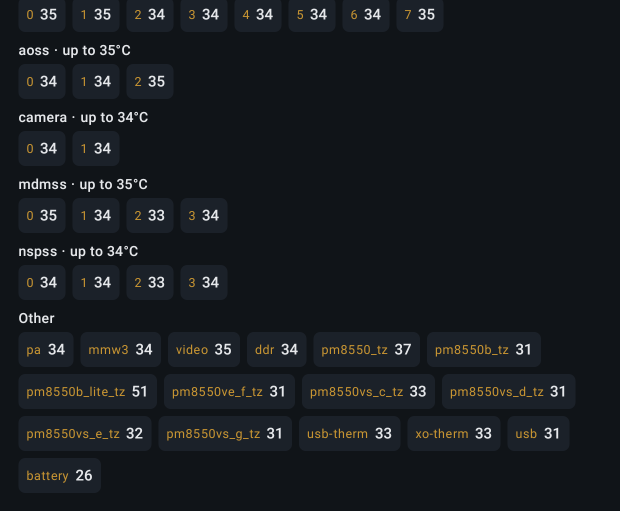
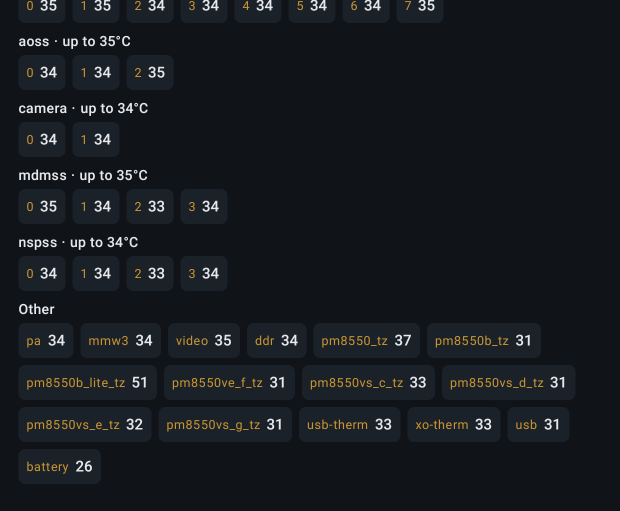
Perf page: lazy list so a poll recomposes only what is on screen; restore the app-list card without scrolling the row

diff --git a/app/src/main/java/io/github/esko997/sortie/ui/PerfViews.kt b/app/src/main/java/io/github/esko997/sortie/ui/PerfViews.kt
@@ -3,7 +3,6 @@ package io.github.esko997.sortie.ui
 import android.view.KeyEvent
 import androidx.compose.foundation.Canvas
 import androidx.compose.foundation.LocalIndication
-import androidx.compose.foundation.ScrollState
 import androidx.compose.foundation.background
 import androidx.compose.foundation.clickable
 import androidx.compose.foundation.focusable
@@ -23,9 +22,12 @@ import androidx.compose.foundation.layout.fillMaxSize
 import androidx.compose.foundation.layout.fillMaxWidth
 import androidx.compose.foundation.layout.height
 import androidx.compose.foundation.layout.padding
-import androidx.compose.foundation.rememberScrollState
+import androidx.compose.foundation.lazy.LazyColumn
+import androidx.compose.foundation.lazy.LazyListState
+import androidx.compose.foundation.lazy.items
+import androidx.compose.foundation.lazy.itemsIndexed
+import androidx.compose.foundation.lazy.rememberLazyListState
 import androidx.compose.foundation.shape.RoundedCornerShape
-import androidx.compose.foundation.verticalScroll
 import androidx.compose.material3.MaterialTheme
 import androidx.compose.material3.Text
 import androidx.compose.runtime.Composable
@@ -57,6 +59,7 @@ import androidx.compose.ui.platform.LocalInputModeManager
 import androidx.compose.ui.semantics.Role
 import androidx.compose.ui.semantics.semantics
 import androidx.compose.ui.text.font.FontWeight
+import androidx.compose.ui.unit.LayoutDirection
 import androidx.compose.ui.unit.dp
 import androidx.compose.ui.unit.sp
 import io.github.esko997.sortie.SortieApp
@@ -65,6 +68,7 @@ import io.github.esko997.sortie.stats.PerfMetric
 import io.github.esko997.sortie.stats.Sparkline
 import io.github.esko997.sortie.stats.StatsText
 import io.github.esko997.sortie.stats.ZoneGroup
+import java.util.Locale
 import kotlinx.coroutines.delay
 import kotlinx.coroutines.launch
 
@@ -82,7 +86,7 @@ fun OverlayPerf(controller: Boolean, onApps: () -> Unit) {
 /** [OverlayPerf] for a given [frame]. */
 @Composable
 fun OverlayPerfPage(frame: PerfFrame?, controller: Boolean, onApps: () -> Unit) {
-    val scroll = rememberScrollState()
+    val list = rememberLazyListState()
     val title: @Composable () -> Unit = {
         Row(Modifier.fillMaxWidth().padding(bottom = 12.dp), verticalAlignment = Alignment.CenterVertically) {
             Text("Performance", style = MaterialTheme.typography.titleLarge, modifier = Modifier.weight(1f))
@@ -90,7 +94,7 @@ fun OverlayPerfPage(frame: PerfFrame?, controller: Boolean, onApps: () -> Unit) 
         }
     }
     if (!controller) {
-        PerfPage(frame, Modifier.fillMaxSize(), PaddingValues(16.dp), scroll, title)
+        PerfPage(frame, Modifier.fillMaxSize(), PaddingValues(16.dp), list, title)
         return
     }
     val requester = remember { FocusRequester() }
@@ -121,12 +125,12 @@ fun OverlayPerfPage(frame: PerfFrame?, controller: Boolean, onApps: () -> Unit) 
                         KeyEvent.KEYCODE_DPAD_DOWN -> step
                         else -> return@onPreviewKeyEvent false
                     }
-                    scope.launch { scroll.animateScrollBy(by) }
+                    scope.launch { list.animateScrollBy(by) }
                     true
                 }
                 .focusable(),
             PaddingValues(16.dp),
-            scroll,
+            list,
             title
         )
         HintBar("↑↓" to "scroll", "B" to "apps", "R1" to "apps")
@@ -156,49 +160,59 @@ fun CompanionPerfPage(frame: PerfFrame?) {
 /**
  * Large numbers with a two-minute sparkline each, then the details: every core's clock and every thermal zone, grouped. A
  * metric the device never reported in the window gets no tile; the details appear once the first detailed poll is in.
- * Stateless: everything comes from [frame], so it renders the same for the same frame (screenshot tests).
+ * Stateless: everything comes from [frame], so it renders the same for the same frame (screenshot tests). A lazy list, so a
+ * poll recomposes only what is on screen: the Thor reports some 60 zones, mostly below the fold.
  */
 @OptIn(ExperimentalLayoutApi::class)
 @Composable
-fun PerfPage(frame: PerfFrame?, modifier: Modifier, contentPadding: PaddingValues, scroll: ScrollState = rememberScrollState(), title: @Composable () -> Unit) {
-    Column(modifier.verticalScroll(scroll).padding(contentPadding)) {
-        title()
-        if (frame == null) {
-            Text("Reading…", color = MaterialTheme.colorScheme.onSurfaceVariant)
-            return@Column
-        }
-        val metrics = remember(frame) { PerfMetric.entries.filter(frame.history::has) }
-        BoxWithConstraints(Modifier.fillMaxWidth()) {
-            val columns = (maxWidth / TILE_MIN_WIDTH).toInt().coerceIn(2, 5)
+fun PerfPage(
+    frame: PerfFrame?,
+    modifier: Modifier,
+    contentPadding: PaddingValues,
+    list: LazyListState = rememberLazyListState(),
+    title: @Composable () -> Unit
+) {
+    BoxWithConstraints(modifier) {
+        val side = contentPadding.calculateLeftPadding(LayoutDirection.Ltr) + contentPadding.calculateRightPadding(LayoutDirection.Ltr)
+        val columns = ((maxWidth - side) / TILE_MIN_WIDTH).toInt().coerceIn(2, 5)
+        val metrics = remember(frame) { frame?.let { f -> PerfMetric.entries.filter(f.history::has) }.orEmpty() }
+        val groups = remember(frame?.stats?.zones) { frame?.stats?.zones?.let(ZoneGroup::of).orEmpty() }
+        LazyColumn(Modifier.fillMaxSize(), state = list, contentPadding = contentPadding) {
+            item(key = "title") { title() }
+            if (frame == null) {
+                item(key = "reading") { Text("Reading…", color = MaterialTheme.colorScheme.onSurfaceVariant) }
+                return@LazyColumn
+            }
             // rows of equal weights rather than a FlowRow of computed widths, which rounding can push onto the next line
-            Column(verticalArrangement = Arrangement.spacedBy(TILE_GAP)) {
-                for (row in metrics.chunked(columns)) {
-                    Row(horizontalArrangement = Arrangement.spacedBy(TILE_GAP)) {
-                        for (m in row) MetricTile(frame, m, Modifier.weight(1f))
-                        repeat(columns - row.size) { Spacer(Modifier.weight(1f)) }
+            itemsIndexed(metrics.chunked(columns), key = { i, _ -> "tiles-$i" }) { i, row ->
+                Row(Modifier.padding(top = if (i > 0) TILE_GAP else 0.dp), horizontalArrangement = Arrangement.spacedBy(TILE_GAP)) {
+                    for (m in row) MetricTile(frame, m, Modifier.weight(1f))
+                    repeat(columns - row.size) { Spacer(Modifier.weight(1f)) }
+                }
+            }
+            if (PerfMetric.CPU_LOAD !in metrics && frame.stats.zones == null) {
+                item(key = "shizuku") {
+                    Text(
+                        "CPU, GPU, temperatures and the fan need Shizuku (Settings → Diagnostics).",
+                        style = MaterialTheme.typography.bodySmall,
+                        color = MaterialTheme.colorScheme.onSurfaceVariant,
+                        modifier = Modifier.padding(top = 12.dp)
+                    )
+                }
+            }
+            frame.stats.coreKhz?.let { cores ->
+                item(key = "cores") {
+                    Column {
+                        SectionLabel("Core clocks · GHz")
+                        FlowRow(horizontalArrangement = Arrangement.spacedBy(6.dp), verticalArrangement = Arrangement.spacedBy(6.dp)) {
+                            for (c in cores) Chip("cpu${c.core}", String.format(Locale.US, "%.2f", c.khz / 1_000_000.0))
+                        }
                     }
                 }
             }
-        }
-        if (PerfMetric.CPU_LOAD !in metrics && frame.stats.zones == null) {
-            Text(
-                "CPU, GPU, temperatures and the fan need Shizuku (Settings → Diagnostics).",
-                style = MaterialTheme.typography.bodySmall,
-                color = MaterialTheme.colorScheme.onSurfaceVariant,
-                modifier = Modifier.padding(top = 12.dp)
-            )
-        }
-        frame.stats.coreKhz?.let { cores ->
-            SectionLabel("Core clocks · GHz")
-            FlowRow(horizontalArrangement = Arrangement.spacedBy(6.dp), verticalArrangement = Arrangement.spacedBy(6.dp)) {
-                for (c in cores) Chip("cpu${c.core}", String.format(java.util.Locale.US, "%.2f", c.khz / 1_000_000.0))
-            }
-        }
-        frame.stats.zones?.let { zones ->
-            SectionLabel("Thermal zones · °C")
-            val groups = remember(zones) { ZoneGroup.of(zones) }
-            Column(verticalArrangement = Arrangement.spacedBy(8.dp)) {
-                for (g in groups) ZoneRow(g)
+            if (groups.isNotEmpty()) {
+                item(key = "zones") { SectionLabel("Thermal zones · °C") }
+                items(groups, key = { "zone-${it.name}" }) { ZoneRow(it, Modifier.padding(bottom = 8.dp)) }
             }
         }
     }
@@ -284,8 +298,8 @@ private fun Chip(label: String, value: String) {
 /** A zone group: its name and hottest reading, then each zone. */
 @OptIn(ExperimentalLayoutApi::class)
 @Composable
-private fun ZoneRow(group: ZoneGroup) {
-    Column(verticalArrangement = Arrangement.spacedBy(4.dp)) {
+private fun ZoneRow(group: ZoneGroup, modifier: Modifier) {
+    Column(modifier, verticalArrangement = Arrangement.spacedBy(4.dp)) {
         Text(
             if (group.name == ZoneGroup.OTHER) group.name else "${group.name} · up to ${StatsText.celsius(group.hottest)}",
             style = MaterialTheme.typography.labelMedium,

diff --git a/app/src/main/java/io/github/esko997/sortie/ui/SwitcherScreen.kt b/app/src/main/java/io/github/esko997/sortie/ui/SwitcherScreen.kt
@@ -31,6 +31,7 @@ import androidx.compose.runtime.mutableStateOf
 import androidx.compose.runtime.remember
 import androidx.compose.runtime.rememberCoroutineScope
 import androidx.compose.runtime.setValue
+import androidx.compose.runtime.snapshotFlow
 import androidx.compose.ui.Alignment
 import androidx.compose.ui.ExperimentalComposeUiApi
 import androidx.compose.ui.Modifier
@@ -49,6 +50,7 @@ import io.github.esko997.sortie.SortieApp
 import io.github.esko997.sortie.shell.TaskSwitcher
 import kotlinx.coroutines.delay
 import kotlinx.coroutines.flow.Flow
+import kotlinx.coroutines.flow.first
 import kotlinx.coroutines.launch
 
 /**
@@ -217,7 +219,15 @@ private fun ScreenRow(
         return
     }
     val returnTask = restore?.takeIf { it.row == displayId }?.task
-    val list = rememberLazyListState(initialFirstVisibleItemIndex = shown.indexOfFirst { it.task.id == returnTask }.coerceAtLeast(0))
+    val list = rememberLazyListState()
+    // the returning card may lie past the right edge, where the row has not composed it: scroll it in so it can take the
+    // focus (a card the row has composed, even partly shown, scrolls itself into view when focused)
+    LaunchedEffect(returnTask) {
+        val index = shown.indexOfFirst { it.task.id == returnTask }
+        if (index < 0) return@LaunchedEffect
+        val laidOut = snapshotFlow { list.layoutInfo }.first { it.totalItemsCount > 0 }
+        if (laidOut.visibleItemsInfo.none { it.index == index }) list.scrollToItem(index)
+    }
     LazyRow(state = list, horizontalArrangement = Arrangement.spacedBy(10.dp), contentPadding = PaddingValues(vertical = 6.dp, horizontal = 4.dp)) {
         itemsIndexed(shown, key = { _, e -> "$displayId/${e.task.id}" }) { i, e ->
             val elsewhere = e.task.displayId != displayId

diff --git a/app/src/testDebug/java/io/github/esko997/sortie/ui/PerfScreenshotTest.kt b/app/src/testDebug/java/io/github/esko997/sortie/ui/PerfScreenshotTest.kt
@@ -4,7 +4,7 @@ import androidx.compose.foundation.background
 import androidx.compose.foundation.layout.Box
 import androidx.compose.foundation.layout.PaddingValues
 import androidx.compose.foundation.layout.fillMaxSize
-import androidx.compose.foundation.rememberScrollState
+import androidx.compose.foundation.lazy.rememberLazyListState
 import androidx.compose.material3.MaterialTheme
 import androidx.compose.material3.Surface
 import androidx.compose.runtime.Composable
@@ -105,7 +105,7 @@ class ThorBottomPerfScreenshotTest : PerfScreenshotTest("thor-bottom") {
     @Test
     fun perfDetails() = capture("perf-details") {
         Box(Modifier.fillMaxSize().background(Ink)) {
-            PerfPage(FIXTURE, Modifier.fillMaxSize(), PaddingValues(16.dp), rememberScrollState(Int.MAX_VALUE)) {}
+            PerfPage(FIXTURE, Modifier.fillMaxSize(), PaddingValues(16.dp), rememberLazyListState(1_000)) {}
         }
     }
 }
